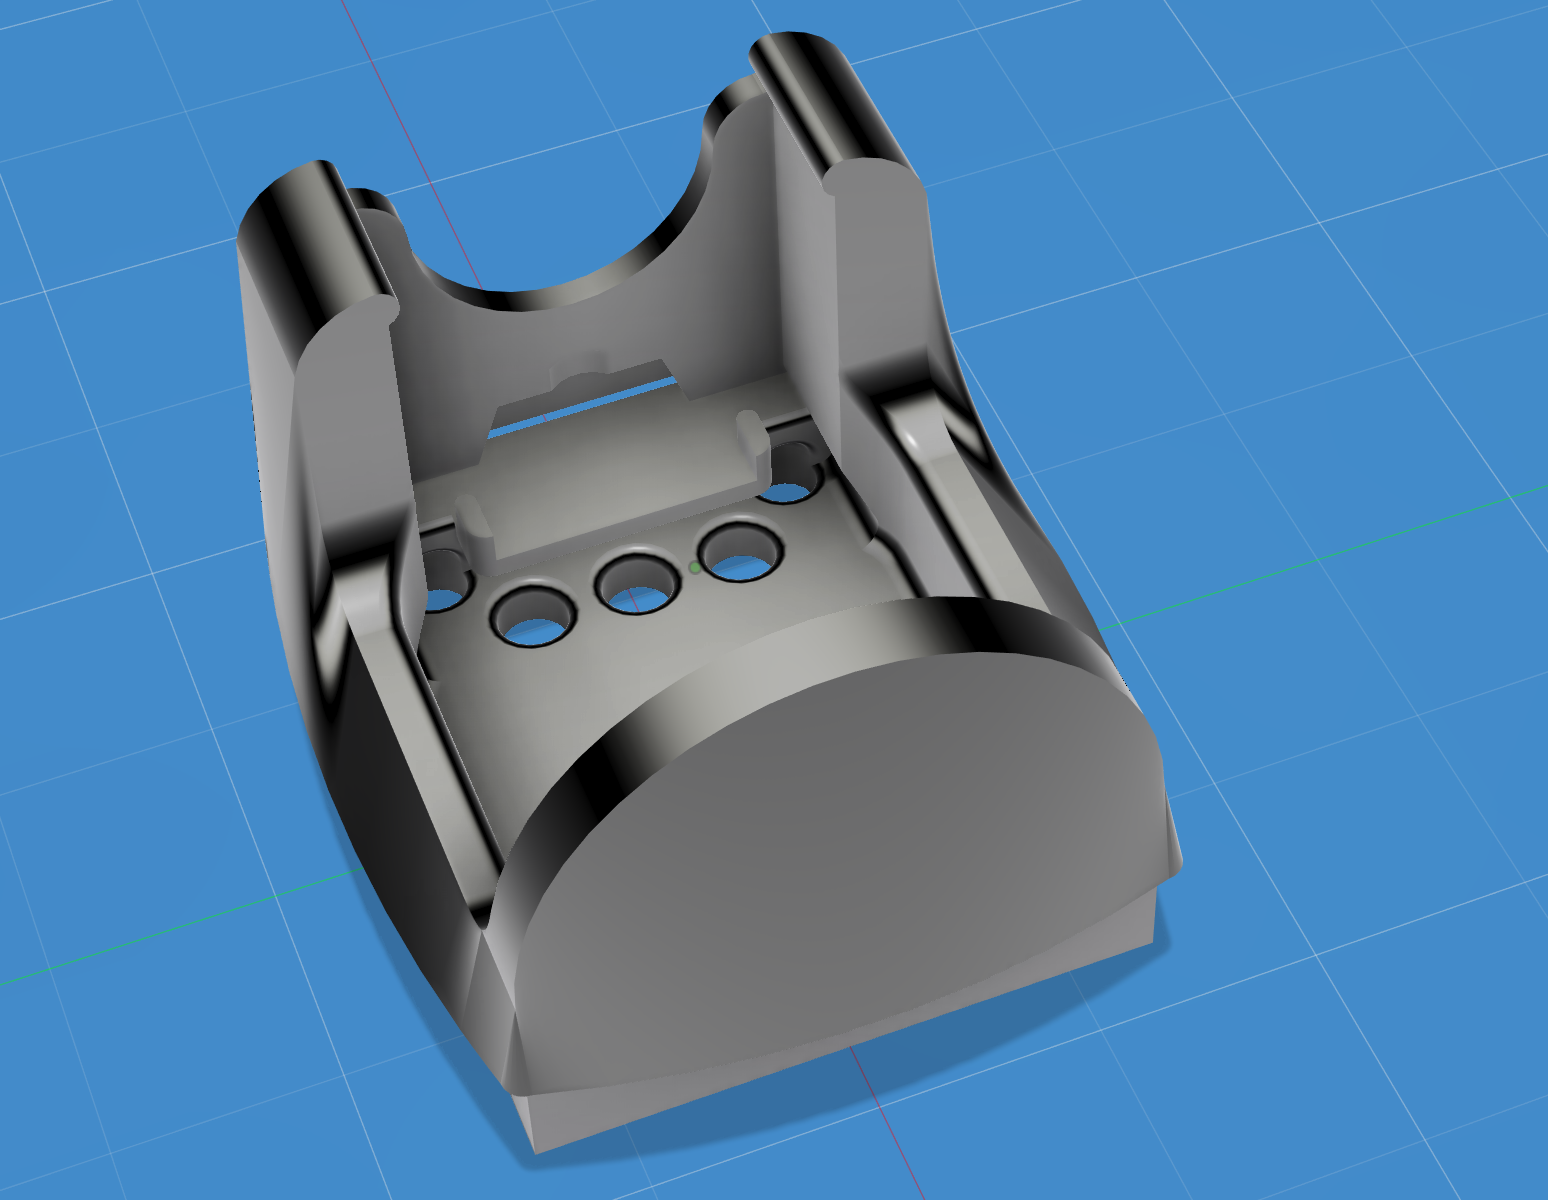
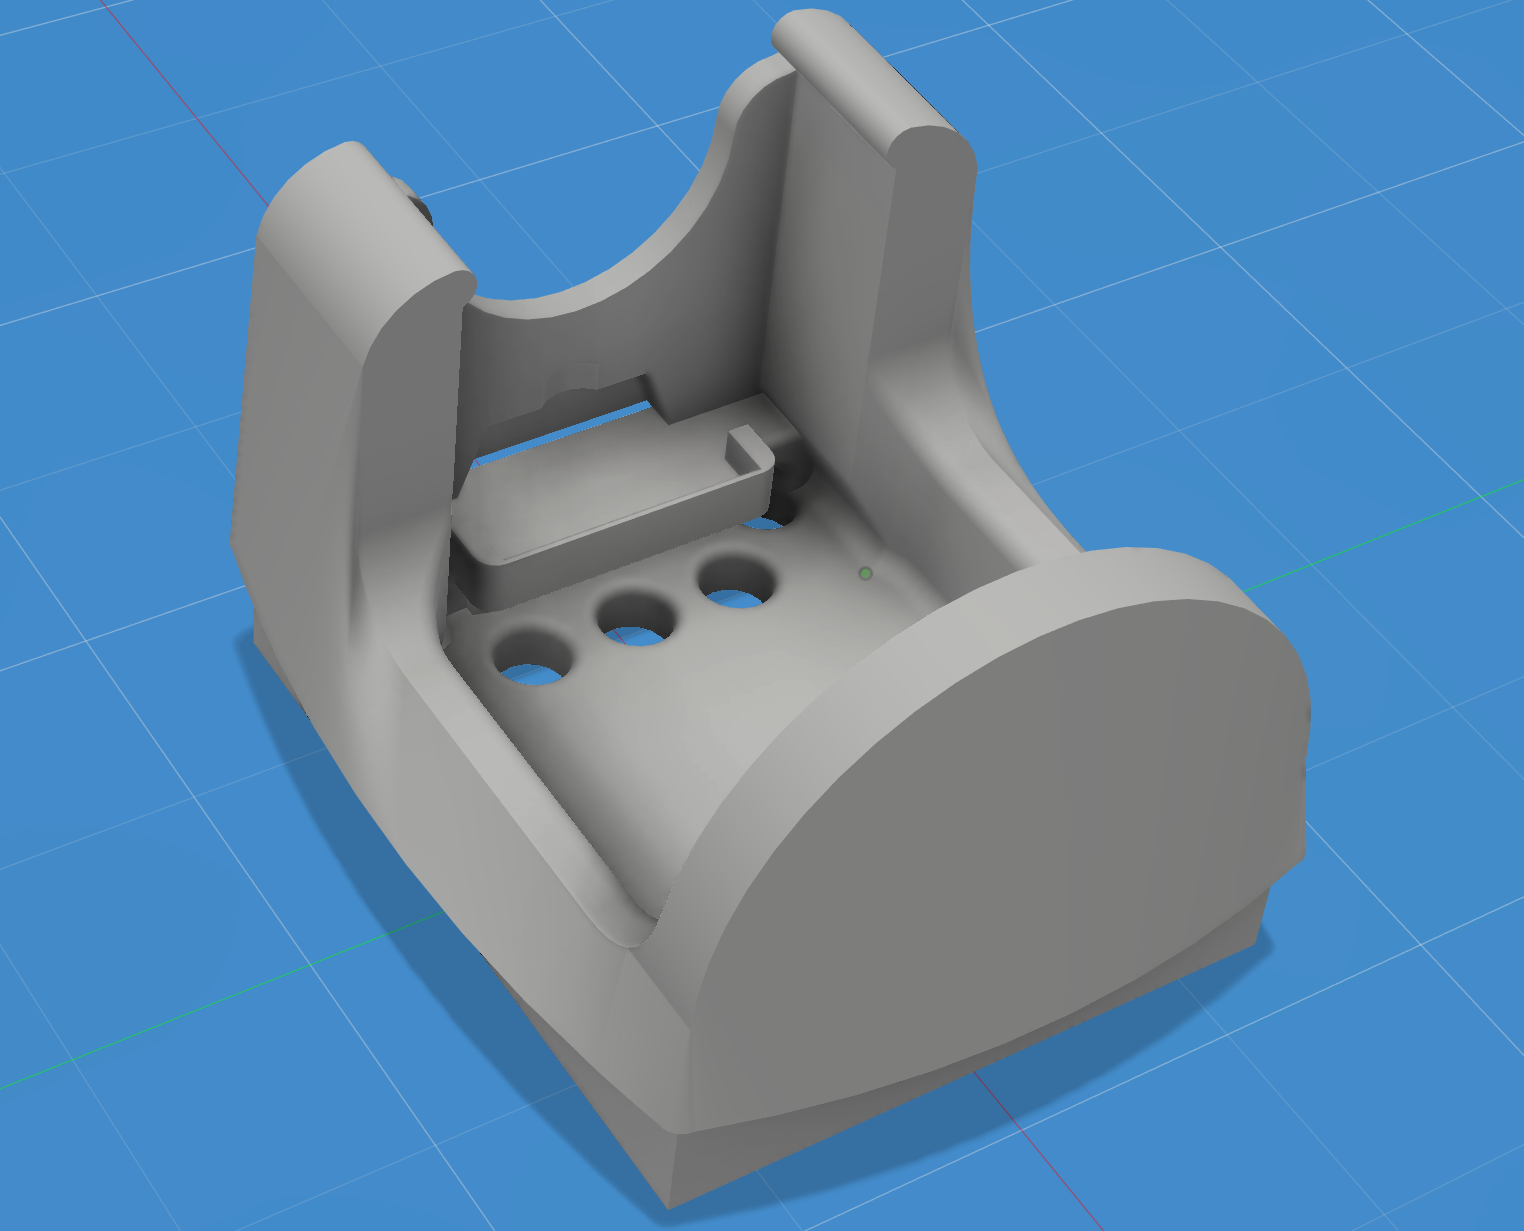
Image tweaks

diff --git a/README.md b/README.md
@@ -1,9 +1,9 @@
 # MEH01-mod
 Mods to MEH01 rotary encoder from https://github.com/EverydayErgo/MEH01
 
-The changes made are listed below.
-No changes interfere with interpoperatiliby with base MEH01 parts and are meant to be only slightly functional and primarily style-based changes from original.
-I create these using FDM printing and not resin SLA so these changes may not be as valuable to folks in SLA scenarios.  My primary motivation for the changes started with assembly challenges in my setup mostly fitting the select button into the frame and clearance challenges and making several of these for folks thus wanting to make assembly easier.  This led to a rabbit hole of tweaks.  It must be mentioned that I overall see no problems with the original design in a purely functional sense and these mods are driven by my specific utilization of the design and my printer/workflow/etc..
+The changes made are detailed below.
+None of these changes should interfere with interoperatiliby with base MEH01 parts and are meant to be only a slight functional change and are primarily style-based changes from the original.
+I create these using a Bambu P1S (usually PCTG filament) and not resin SLA so these changes may not be as valuable to folks in SLA scenarios or even FDM with other filaments.  My primary motivation for the changes started with assembly challenges in my setup, mostly fitting the select button into the frame and clearance challenges as well as making several of these for folks thus wanting to make assembly easier.  This led to a rabbit hole of tweaks.  It must be mentioned that I overall see no problems with the original design in a purely functional sense and these mods are driven by my specific utilization of the design and my printer/workflow/etc..
 
 Functional Modifications:
 
@@ -24,7 +24,7 @@ I have a lot of curved surfaces in my Cosmos (https://ryanis.cool/cosmos) keyboa
 * Removed majority of right angles at edge interfaces which also reduced stress concentration points, thickened the wall that holds the rotational pin as well as balanced the opposite wall a little and smoothed a bunch of edges in general.
 
 Other:
-Will be putting a fusion .f3d file up here eventually once I'm fully happy with the tweaks so people can further iterate.  I think this design is fantastic and I have chanced none of the functional dimensions so this will fit in any existing MEH01 socket.  If you have suggestions to further improve this direction please let me know!
+Will be putting a fusion .f3d file up here once I'm fully happy with the tweaks so people can further iterate.  I think this original design is fantastic and I have changed none of the functional dimensions so this will fit in any existing MEH01 socket.  If you have suggestions to further improve this direction please let me know!
 
 The models.
 Snaps from Fusion as the PCTG models I printed are dark and shiny as heck and make for terrible photos.
